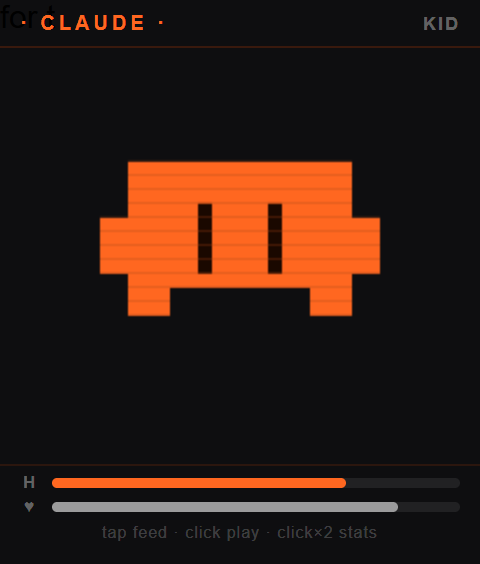
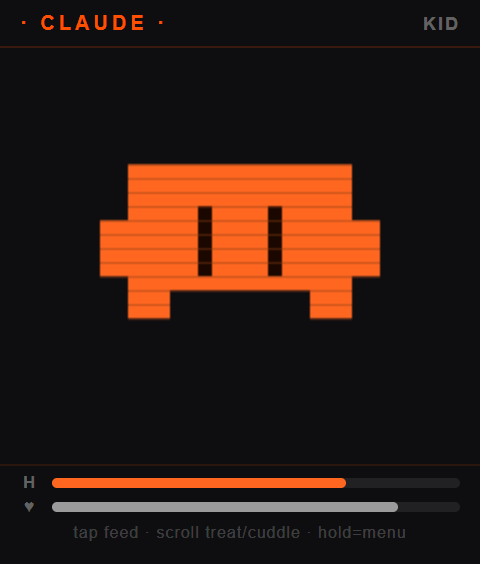
Standardise title colour to #FE5000 across all creations; regenerate screenshots

Changed region(s): [[0.1875, 0.2713, 0.8125, 0.5727], [0.1562, 0.9344, 0.8438, 0.9645], [0.0625, 0.0301, 0.3125, 0.0603]]

diff --git a/r1-buddy/index.html b/r1-buddy/index.html
@@ -19,7 +19,7 @@ body {
   padding: 0 10px;
   border-bottom: 1px solid rgba(254,80,0,0.18);
 }
-#top-bar .name { font-size: 10px; font-weight: 700; letter-spacing: 2px; color: #FF6720; }
+#top-bar .name { font-size: 10px; font-weight: 700; letter-spacing: 2px; color: #FE5000; }
 #top-bar .stage-lbl { font-size: 9px; font-weight: 600; letter-spacing: 1px; color: rgba(255,255,255,0.35); }
 #main-canvas { position: absolute; top: 24px; left: 0; display: block; }
 #bottom-bar {
@@ -333,9 +333,10 @@ function resetPet() {
 }
 
 // ── mode & menu ────────────────────────────────────────────────────────────────
-var mode = 'home'; // home | menu | catch | fish
+var mode = 'home'; // home | menu | confirm | catch | fish
 var MENU_ITEMS = ['CATCH GAME','FISHING','RESET PET'];
 var menuIdx = 0;
+var confirmIdx = 0; // 0=NO 1=YES
 
 function openMenu()  { mode='menu'; menuIdx=0; updateHint(); }
 function closeMenu() { mode='home'; updateHint(); }
@@ -344,14 +345,19 @@ function confirmMenu() {
   var sel = MENU_ITEMS[menuIdx]; closeMenu();
   if (sel==='CATCH GAME') catchStart();
   else if (sel==='FISHING') fishStart();
-  else if (sel==='RESET PET') resetPet();
+  else if (sel==='RESET PET') { mode='confirm'; confirmIdx=0; updateHint(); }
+}
+function confirmReset() {
+  if (confirmIdx===1) { resetPet(); }
+  mode='home'; updateHint();
 }
 function updateHint() {
   var hints = {
-    home:  'tap feed · scroll treat/cuddle · hold=menu',
-    menu:  'scroll select · tap ok · side close',
-    catch: 'scroll ↑← ↓→ to catch  ·  side exit',
-    fish:  '↑ cast · ↓ reel on bite  ·  side exit'
+    home:    'tap feed · scroll treat/cuddle · hold=menu',
+    menu:    'scroll select · tap ok · side close',
+    confirm: 'scroll YES/NO · tap ok · side cancel',
+    catch:   'scroll ↑← ↓→ to catch  ·  side exit',
+    fish:    '↑ cast · ↓ reel on bite  ·  side exit'
   };
   document.getElementById('hint').textContent = hints[mode] || hints.home;
 }
@@ -379,6 +385,33 @@ function drawMenu() {
   ctx.fillStyle = 'rgba(255,255,255,0.18)';
   ctx.font = '8px -apple-system,sans-serif';
   ctx.fillText('scroll to pick  ·  tap to go', 120, 182);
+  ctx.textAlign = 'left';
+}
+
+function drawConfirm() {
+  ctx.fillStyle = 'rgba(14,14,16,0.96)';
+  ctx.fillRect(0,0,240,208);
+  ctx.textAlign = 'center';
+  ctx.fillStyle = '#ff4444';
+  ctx.font = 'bold 10px -apple-system,sans-serif';
+  ctx.fillText('RESET PET?', 120, 58);
+  ctx.fillStyle = 'rgba(255,255,255,0.55)';
+  ctx.font = '9px -apple-system,sans-serif';
+  ctx.fillText('all progress will be lost', 120, 76);
+  var opts = ['NO','YES'];
+  for (var i=0; i<opts.length; i++) {
+    var iy = 108+i*34, sel = i===confirmIdx;
+    if (sel) {
+      ctx.fillStyle = i===1 ? 'rgba(255,68,68,0.18)' : 'rgba(255,103,32,0.13)';
+      ctx.fillRect(60, iy-16, 120, 24);
+      ctx.strokeStyle = i===1 ? 'rgba(255,68,68,0.6)' : 'rgba(255,103,32,0.45)';
+      ctx.lineWidth = 1;
+      ctx.strokeRect(60, iy-16, 120, 24);
+    }
+    ctx.fillStyle = sel ? (i===1 ? '#ff4444' : ORANGE) : 'rgba(255,255,255,0.35)';
+    ctx.font = 'bold 13px -apple-system,sans-serif';
+    ctx.fillText(opts[i], 120, iy);
+  }
   ctx.textAlign = 'left';
 }
 
@@ -674,6 +707,7 @@ var lastSide=0;
 window.addEventListener('sideClick', function() {
   if (statsOpen) { closeStats(); return; }
   if (mode==='menu') { closeMenu(); return; }
+  if (mode==='confirm') { mode='home'; updateHint(); return; }
   if (mode!=='home') { exitGame(); return; }
   var now=Date.now();
   if (now-lastSide<400) { openStats(); lastSide=0; }
@@ -687,6 +721,7 @@ window.addEventListener('longPressEnd', function() {
 });
 window.addEventListener('scrollUp', function() {
   if (statsOpen) return;
+  if (mode==='confirm') { confirmIdx=(confirmIdx+1)%2; return; }
   if (mode==='menu')  { menuIdx=(menuIdx+1)%MENU_ITEMS.length; return; }
   if (mode==='home')  { doTreat();        return; }
   if (mode==='catch') { catchScrollLeft();return; }
@@ -694,6 +729,7 @@ window.addEventListener('scrollUp', function() {
 });
 window.addEventListener('scrollDown', function() {
   if (statsOpen) return;
+  if (mode==='confirm') { confirmIdx=(confirmIdx+1)%2; return; }
   if (mode==='menu')  { menuIdx=(menuIdx-1+MENU_ITEMS.length)%MENU_ITEMS.length; return; }
   if (mode==='home')  { doCuddle();        return; }
   if (mode==='catch') { catchScrollRight();return; }
@@ -704,14 +740,15 @@ document.addEventListener('keydown', function(e) {
   if (e.key==='Escape')            { e.preventDefault(); window.dispatchEvent(new Event('sideClick')); }
   if (e.key==='ArrowUp')           window.dispatchEvent(new Event('scrollUp'));
   if (e.key==='ArrowDown')         window.dispatchEvent(new Event('scrollDown'));
-  if (e.key===' '&&!e.repeat)     { e.preventDefault(); if(mode==='menu') confirmMenu(); else if(mode==='home') doFeed(); }
-  if (e.key==='Enter')             { if(mode==='menu') confirmMenu(); }
+  if (e.key===' '&&!e.repeat)     { e.preventDefault(); if(mode==='confirm') confirmReset(); else if(mode==='menu') confirmMenu(); else if(mode==='home') doFeed(); }
+  if (e.key==='Enter')             { if(mode==='confirm') confirmReset(); else if(mode==='menu') confirmMenu(); }
   if (e.key==='Tab')               { e.preventDefault(); state.stage=(state.stage+1)%5; saveState(); }
   if (e.key==='r')                 window.dispatchEvent(new Event('longPressEnd'));
 });
 canvas.addEventListener('pointerup', function(e) {
   e.preventDefault();
   if (statsOpen) { closeStats(); return; }
+  if (mode==='confirm') { confirmReset(); return; }
   if (mode==='menu') { confirmMenu(); return; }
   if (mode==='home') doFeed();
 });
@@ -748,7 +785,7 @@ function updateUI() {
 var lastTick=0;
 function render(ts) {
   var now=Date.now();
-  if ((mode==='home'||mode==='menu') && (!lastTick||ts-lastTick>30000)) {
+  if ((mode==='home'||mode==='menu'||mode==='confirm') && (!lastTick||ts-lastTick>30000)) {
     applyTimeDecay(); applyStageAdvancement(); saveState(); updateUI(); lastTick=ts;
   }
   if (mode==='catch') { catchUpdate(now); catchDraw(now); requestAnimationFrame(render); return; }
@@ -856,8 +893,9 @@ function render(ts) {
   var sprH=SPRITES[state.stage].length*PIXEL_SIZES[state.stage];
   drawBubble(cx, cy+offsetY-sprH/2);
 
-  // menu overlay
+  // menu / confirm overlays
   if (mode==='menu') drawMenu();
+  if (mode==='confirm') drawConfirm();
 
   requestAnimationFrame(render);
 }

diff --git a/notes/index.html b/notes/index.html
@@ -22,7 +22,7 @@ body {
   border-bottom: 1px solid rgba(255,255,255,0.07);
   flex-shrink: 0;
 }
-#topbar-title { font-size: 10px; font-weight: 700; letter-spacing: 2px; color: rgba(255,255,255,0.35); }
+#topbar-title { font-size: 10px; font-weight: 700; letter-spacing: 2px; color: #FE5000; }
 #note-count { font-size: 9px; color: rgba(254,80,0,0.6); font-weight: 700; }
 
 #notes-viewport { flex: 1; overflow: hidden; position: relative; }

diff --git a/rep-timer/index.html b/rep-timer/index.html
@@ -31,7 +31,7 @@ body {
 }
 #brand {
   margin-top: 8px; font-size: 10px; font-weight: 600;
-  color: rgba(255,255,255,0.25); letter-spacing: 2px; text-transform: uppercase;
+  color: #FE5000; letter-spacing: 2px; text-transform: uppercase;
 }
 #round-row {
   margin-top: 4px; display: flex; gap: 6px; align-items: center;

diff --git a/spirit-level/index.html b/spirit-level/index.html
@@ -226,7 +226,7 @@ function draw() {
   // Brand
   ctx.save();
   ctx.font = '600 8.5px -apple-system, sans-serif';
-  ctx.fillStyle = 'rgba(255,255,255,0.22)';
+  ctx.fillStyle = '#FE5000';
   ctx.textAlign = 'center'; ctx.textBaseline = 'middle';
   ctx.fillText('SPIRIT LEVEL', 120, 14);
   ctx.restore();

diff --git a/dice-roller/index.html b/dice-roller/index.html
@@ -27,7 +27,7 @@ body {
   transition: color 0.15s;
 }
 .tab:last-child { border-right: none; }
-.tab.on { color: #D97706; box-shadow: inset 0 -2px 0 #D97706; }
+.tab.on { color: #FE5000; box-shadow: inset 0 -2px 0 #FE5000; }
 
 /* ── HP tracker ── */
 #hp-area {

diff --git a/rep-tracker/index.html b/rep-tracker/index.html
@@ -23,7 +23,7 @@ body {
 /* Brand */
 .brand {
   margin-top: 10px; font-size: 10px; font-weight: 600;
-  color: rgba(255,255,255,0.28); letter-spacing: 2px;
+  color: #FE5000; letter-spacing: 2px;
 }
 
 /* ── HOME ── */
